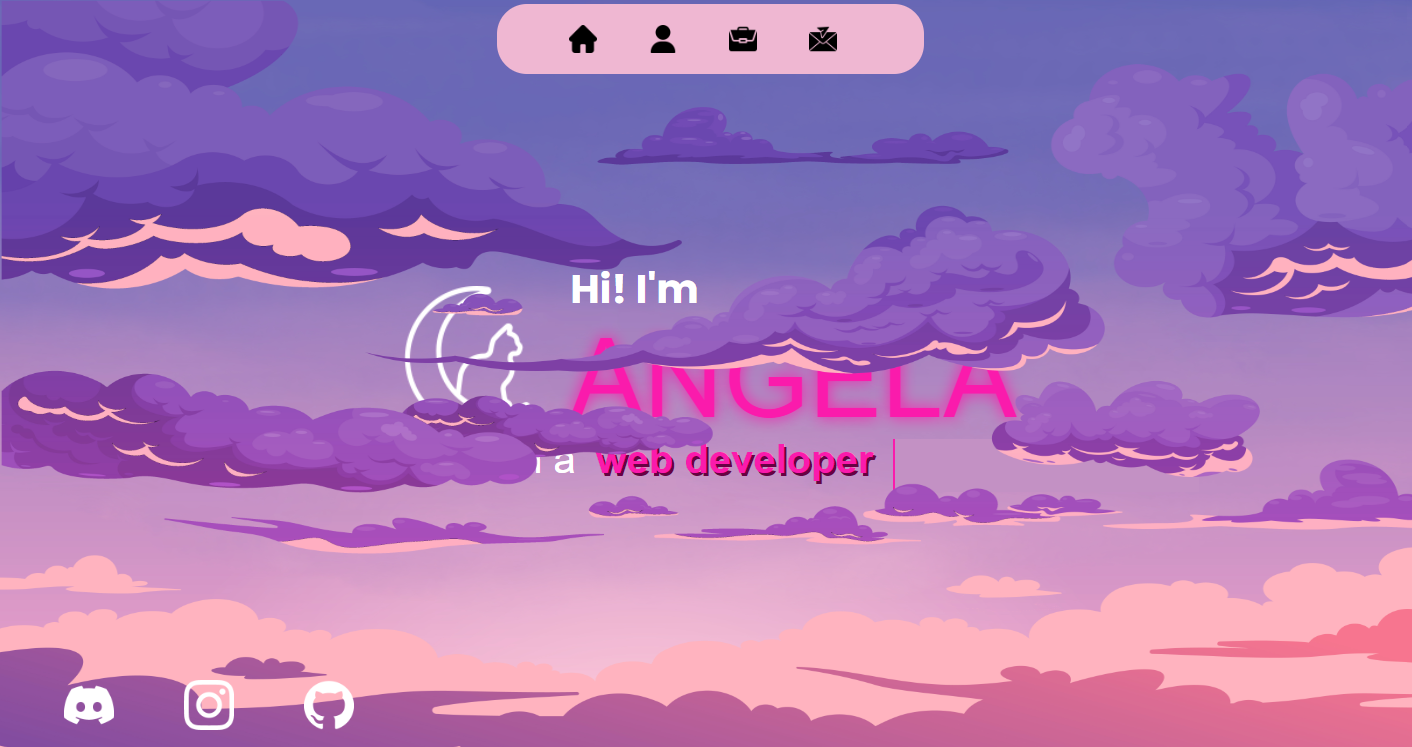
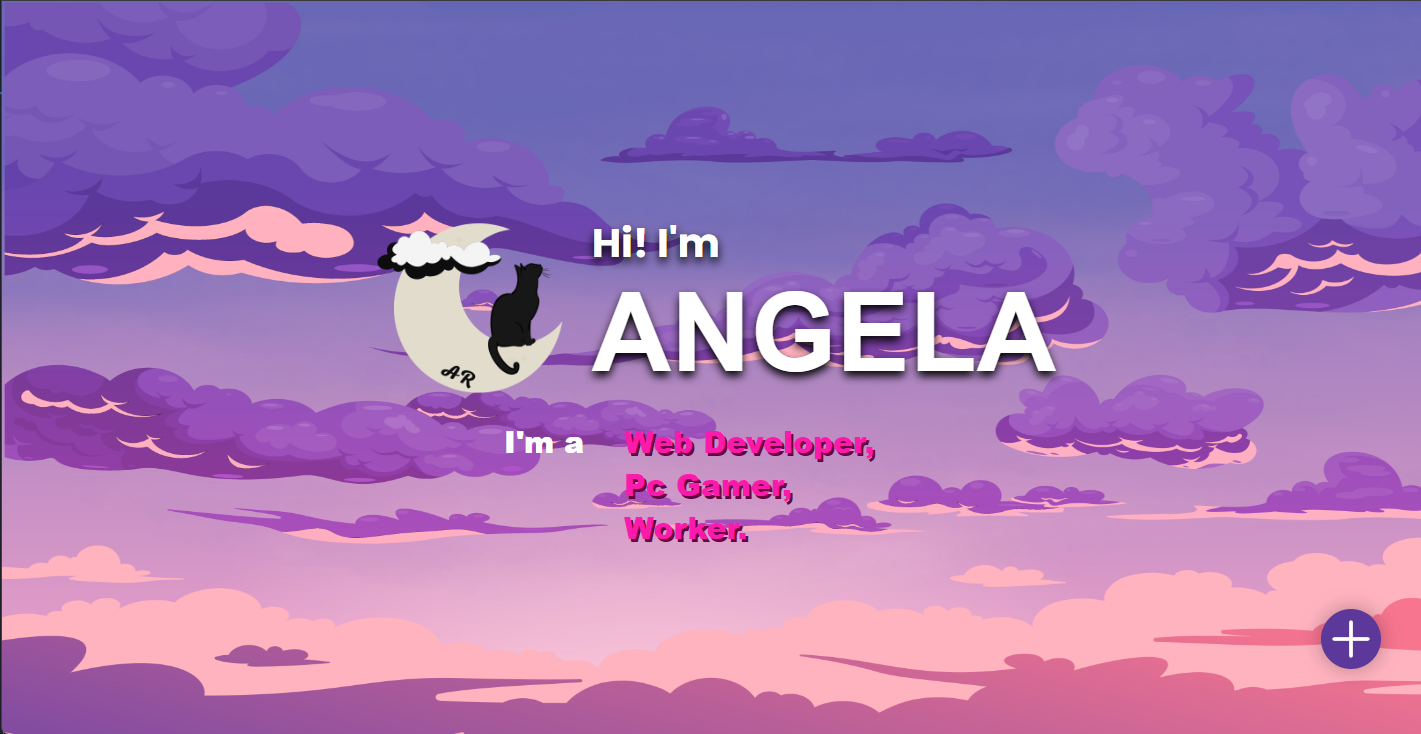
cambiamenti

diff --git a/assets/css/style.css b/assets/css/style.css
@@ -11,6 +11,7 @@
 
 body {
   overflow-x: hidden;
+  position: relative;
 }
 
 
@@ -141,9 +142,10 @@ nav.open .nav-content span {
 
 @media (max-width: 767px) {
   nav {
-    height: 200px;
-    width: 200px;
-    bottom: -35px;
+    height: 100px;
+    width: 100px;
+    bottom: 18px;
+    right: 0;
   }
 
   .nav-content .toggle-btn,
@@ -153,12 +155,12 @@ nav.open .nav-content span {
 }
 
   nav.open .nav-content span {
-    transform: rotate(calc(var(--i) * (350deg/8))) translateY(65px);
+    transform: rotate(calc(var(--i) * (160deg/4))) rotateZ(100deg) translateY(100px);
     opacity: 1;
   }
 
   .nav-content span a ion-icon {
-    transform: rotate(calc(var(--i) * (330deg/-8)));
+    transform: rotate(calc(var(--i) * (-40deg))) rotateZ(-90deg);
   }
 
   .nav-content span {
@@ -177,15 +179,16 @@ nav.open .nav-content span {
   display: flex;
   flex-direction: column;
   position: absolute;
-  height: 55%;
+  height: auto;
   width: 80%;
   margin: 15px;
-  top: 200px;
+  top: 25%;
   z-index: 1;
   cursor: default;
 }
 
 .my-name {
+  height: 75%;
   display: flex;
   flex-direction: row;
 }
@@ -194,10 +197,9 @@ nav.open .nav-content span {
 .icon-cat {
   display: flex;
   position: relative;
-  width: 200px;
-  height: 180px;
-  padding-right: 30px;
-  object-fit: cover;
+  width: 220px;
+  top: -10px;
+  object-fit: contain;
 }
 
 .welcome {
@@ -233,14 +235,14 @@ nav.open .nav-content span {
     height: 65%;
   }
   .icon-cat {
-    width: 120px;
-    height: 120px;
+    width: 75%;
     padding: 0;
   }
 
   .welcome {
     font-size: 30px;
     text-align: center;
+    padding-top: 2px;
   }
   
   .my-name {
@@ -251,8 +253,6 @@ nav.open .nav-content span {
     text-align: center;
   }
 }
-
-
 
 /*text*/
 .text {
@@ -270,7 +270,7 @@ nav.open .nav-content span {
 }
 
 .speciality {
-  width: 30%;
+  max-width: 300px;
 }
 
 .speciality p {
@@ -356,12 +356,15 @@ nav.open .nav-content span {
 }
 
 .about-me-text {
+  display: flex;
+  flex-direction: column;
+  align-self: center;
   position: relative;
   padding: 20px;
   top: 50px;
   left: 5%;
   width: 70%;
-  height: 80%;
+  max-height: 700px;
 }
 
 .about-me-text h3 {
@@ -382,7 +385,7 @@ nav.open .nav-content span {
   justify-content: center;
 
   width: 100%;
-  height: 80%;
+  max-height: 450px;
   top: 30px;
   padding: 15px;
 }
@@ -393,7 +396,7 @@ nav.open .nav-content span {
   align-content: center;
   text-align: center;
   font-weight: bold;
-  font-size: 20px;
+  font-size: 1.1em;
   cursor: default;
   padding: 10px;
   padding-bottom: 60px;
@@ -457,6 +460,12 @@ nav.open .nav-content span {
   }
 }
 
+@media (max-width: 950px) {
+  .catpaw {
+    display: none;
+  }
+}
+
 
 @media (min-width: 767px) and (max-width: 1023px) {
   .content-section {
@@ -507,7 +516,7 @@ nav.open .nav-content span {
   width: 60%;
   height: 60%;
   max-width: 270px;
-  max-height: 86px;
+  max-height: 90px;
   margin-bottom: 15px;
   border-radius: 30px;
 }
@@ -640,11 +649,11 @@ nav.open .nav-content span {
 #modal-skills .modal-content-skills,
 #modal-goals .modal-content-goals {
   position: absolute;
-  top: 55%;
+  top: 60%;
   left: 58%;
   transform: translate(-50%, -50%);
   width: 75%;
-  height: 55%;
+  max-height: 388px;
   padding: 10px 20px;
   background-color: rgb(92, 56, 154);
   border-radius: 50px;
@@ -742,7 +751,7 @@ nav.open .nav-content span {
   #modal-aboutme .modal-content-aboutme,
   #modal-skills .modal-content-skills,
   #modal-goals .modal-content-goals {
-    height: 67%;
+    max-height: 500px;
     width: 99%;
     top: 58%;
     margin: 10px;
@@ -757,11 +766,12 @@ nav.open .nav-content span {
 }
 
 #modal-aboutme .modal-content-aboutme img {
-  width: 140px;
+  width: 130px;
   height: 220px;
-  top: 10%;
-  left: -50px;
+  top: 8%;
+  left: 0%;
   border-radius: 0;
+  margin: 5px;
 }
 
 #modal-aboutme .modal-content-aboutme ul {
@@ -807,7 +817,6 @@ nav.open .nav-content span {
 
   #modal-skills .modal-content-skills {
     height: 65%;
-    top: 430px;
   }
 
   #modal-aboutme .modal-content-aboutme img {
@@ -1265,6 +1274,10 @@ nav.open .nav-content span {
     object-fit: 100%;
     width: 220%;
   }
+  
+  .work-text {
+    max-height: 800px;
+  }
 }
 
 
@@ -1438,12 +1451,12 @@ nav.open .nav-content span {
   }
 
   .card-work img{
-    height: 48%;
+    max-height: 220px;
     object-fit: cover;
   }
 
   .card-text {
-    height: 50%;
+    max-height: 200px;
   }
 
   .card-text h5 {
@@ -1619,9 +1632,11 @@ footer .wave#wave4 {
 }
 
 .contact-text {
+  display: flex;
+  flex-direction: column;
+  align-self: center;
   position: relative;
   padding: 20px;
-  top: 80px;
   left: 5%;
   width: 70%;
   height: 80%;
@@ -1656,7 +1671,7 @@ footer .wave#wave4 {
 }
 
 .text-message {
-  height: 90px;
+  height: 55%;
 }
 
 input, textarea {
@@ -1713,7 +1728,6 @@ label {
   margin-right: 5px;
   margin-left: 15px;
 }
-
 
 @media (max-width: 767px) {
   .content-section-contact {
@@ -1777,7 +1791,12 @@ label {
   }
 
   .contact-text {
-    top: 70px;
+    max-height: 600px;
+  }
+
+
+  .box-contact form {
+    width: 90%;
   }
 
   .contact-me {

diff --git a/index.html b/index.html
@@ -4,13 +4,27 @@
 <head>
   <meta charset="UTF-8">
   <meta http-equiv="X-UA-Compatible" content="IE=edge">
-  <meta name="viewport" content="width=device-width, initial-scale=1.0">
+  <meta name="viewport" content="user-scalable=no, width=device-width, initial-scale=1.0">
+  <meta name="apple-mobile-web-app-capable" content="yes" />
+  <meta http-equiv="ScreenOrientation" content="autoRotate:disabled">
+
+
+
   <link rel="stylesheet" href="assets/css/style.css">
   <link href="https://fonts.googleapis.com/css2?family=Climate+Crisis&family=Poppins:wght@700&display=swap"
   rel="stylesheet">
   <link href="https://cdn.jsdelivr.net/npm/bootstrap@5.3.0-alpha3/dist/css/bootstrap.min.css" rel="stylesheet"
   integrity="sha384-KK94CHFLLe+nY2dmCWGMq91rCGa5gtU4mk92HdvYe+M/SXH301p5ILy+dN9+nJOZ" crossorigin="anonymous">
-  <link rel="icon" href="assets/img/favicon.ico" type="image/x-icon">
+
+  <!--favicon-->
+  <link rel="apple-touch-icon" sizes="180x180" href="assets/img/favicon/apple-touch-icon.png">
+  <link rel="icon" type="image/png" sizes="32x32" href="assets/img/favicon/favicon-32x32.png">
+  <link rel="icon" type="image/png" sizes="16x16" href="assets/img/favicon/favicon-16x16.png">
+  <link rel="manifest" href="assets/img/favicon/site.webmanifest">
+  <link rel="mask-icon" href="assets/img/favicon/safari-pinned-tab.svg" color="#9e688e">
+  <meta name="msapplication-TileColor" content="#9e688e">
+  <meta name="theme-color" content="#9e688e">
+
   <title>Angela Rosace - Portfolio</title>
   
   <!--open graph-->
@@ -53,7 +67,7 @@
     <!--presentation-->
     <header class="presentation" id="text">
       <div class="my-name">
-        <img class="icon-cat" src="assets/img/black-cat (3).png" alt="">
+        <img class="icon-cat" src="assets/img/logo.png" alt="">
         <h1 class="welcome">Hi! I'm
           <span data-text="Angela" class="my-name">ANGELA</span>
         </h1>
@@ -203,7 +217,7 @@
         <div id="modal-goals">
           <div class="modal-content-goals">
             <h1>Goals</h1>
-            <p>Since I finished school, I always worked. I'm currently working and in the free time that I have I study. 
+            <p>Since I finished school, I've always worked. I'm currently working and in the free time that I have I study. 
               When I started to study my initial goal was just to find something that I enjoyed and having a new hobby. 
               However, the more I studied the more Front End development grew on me and now I would like to do it for work. 
               At this point in time my goal, apart from having fun while studying, is to learn as much as possible.</p>
@@ -239,11 +253,12 @@
                   <img src="assets/img/il-mio-portfolio.png" alt="">
                   <div class="card-text">
                     <h5>Portfolio</h5>
-                    <p>My first project in my life.
-                      I used HTML, CSS and a little of JS.</p>
+                    <p>The first project in my life.
+                      I used HTML, CSS and a little bit of JS.</p>
                       <ul class="card-icon">
                         <li><a href="https://giangy25.github.io/Angela-portfolio/" target="_blank"><ion-icon name="eye-outline"></ion-icon></a></li>
                         <li><a href="https://github.com/Giangy25/Angela-portfolio" target="_blank"><ion-icon name="logo-github"></ion-icon></a></li>
+                        <li><a href=""><ion-icon name="document-text-outline"></ion-icon></a></li>
                       </ul>
                   </div>
                 </div>
@@ -258,6 +273,7 @@
                     <ul class="card-icon">
                       <li><a href="#" target="_blank"><ion-icon name="eye-outline"></ion-icon></a></li>
                       <li><a href="https://github.com/Giangy25?tab=repositories" target="_blank"><ion-icon name="logo-github"></ion-icon></a></li>
+                      <li><a href=""><ion-icon name="document-text-outline"></ion-icon></a></li>
                     </ul>
                   </div>
                 </div>
@@ -267,11 +283,12 @@
                 <div class="card-work">
                   <img src="assets/img/another-project.jpeg" alt="">
                   <div class="card-text">
-                    <h5>another project</h5>
-                    <p>Next project with JavaScript, soon you can find the repository on git hub.</p>
+                    <h5>Another project</h5>
+                    <p>Lorem ipsum dolor sit amet consectetur adipisicing elit.</p>
                     <ul class="card-icon">
                       <li><a href="#" target="_blank"><ion-icon name="eye-outline"></ion-icon></a></li>
                       <li><a href="https://github.com/Giangy25?tab=repositories" target="_blank"><ion-icon name="logo-github"></ion-icon></a></li>
+                      <li><a href=""><ion-icon name="document-text-outline"></ion-icon></a></li>
                     </ul>
                   </div>
                 </div>
